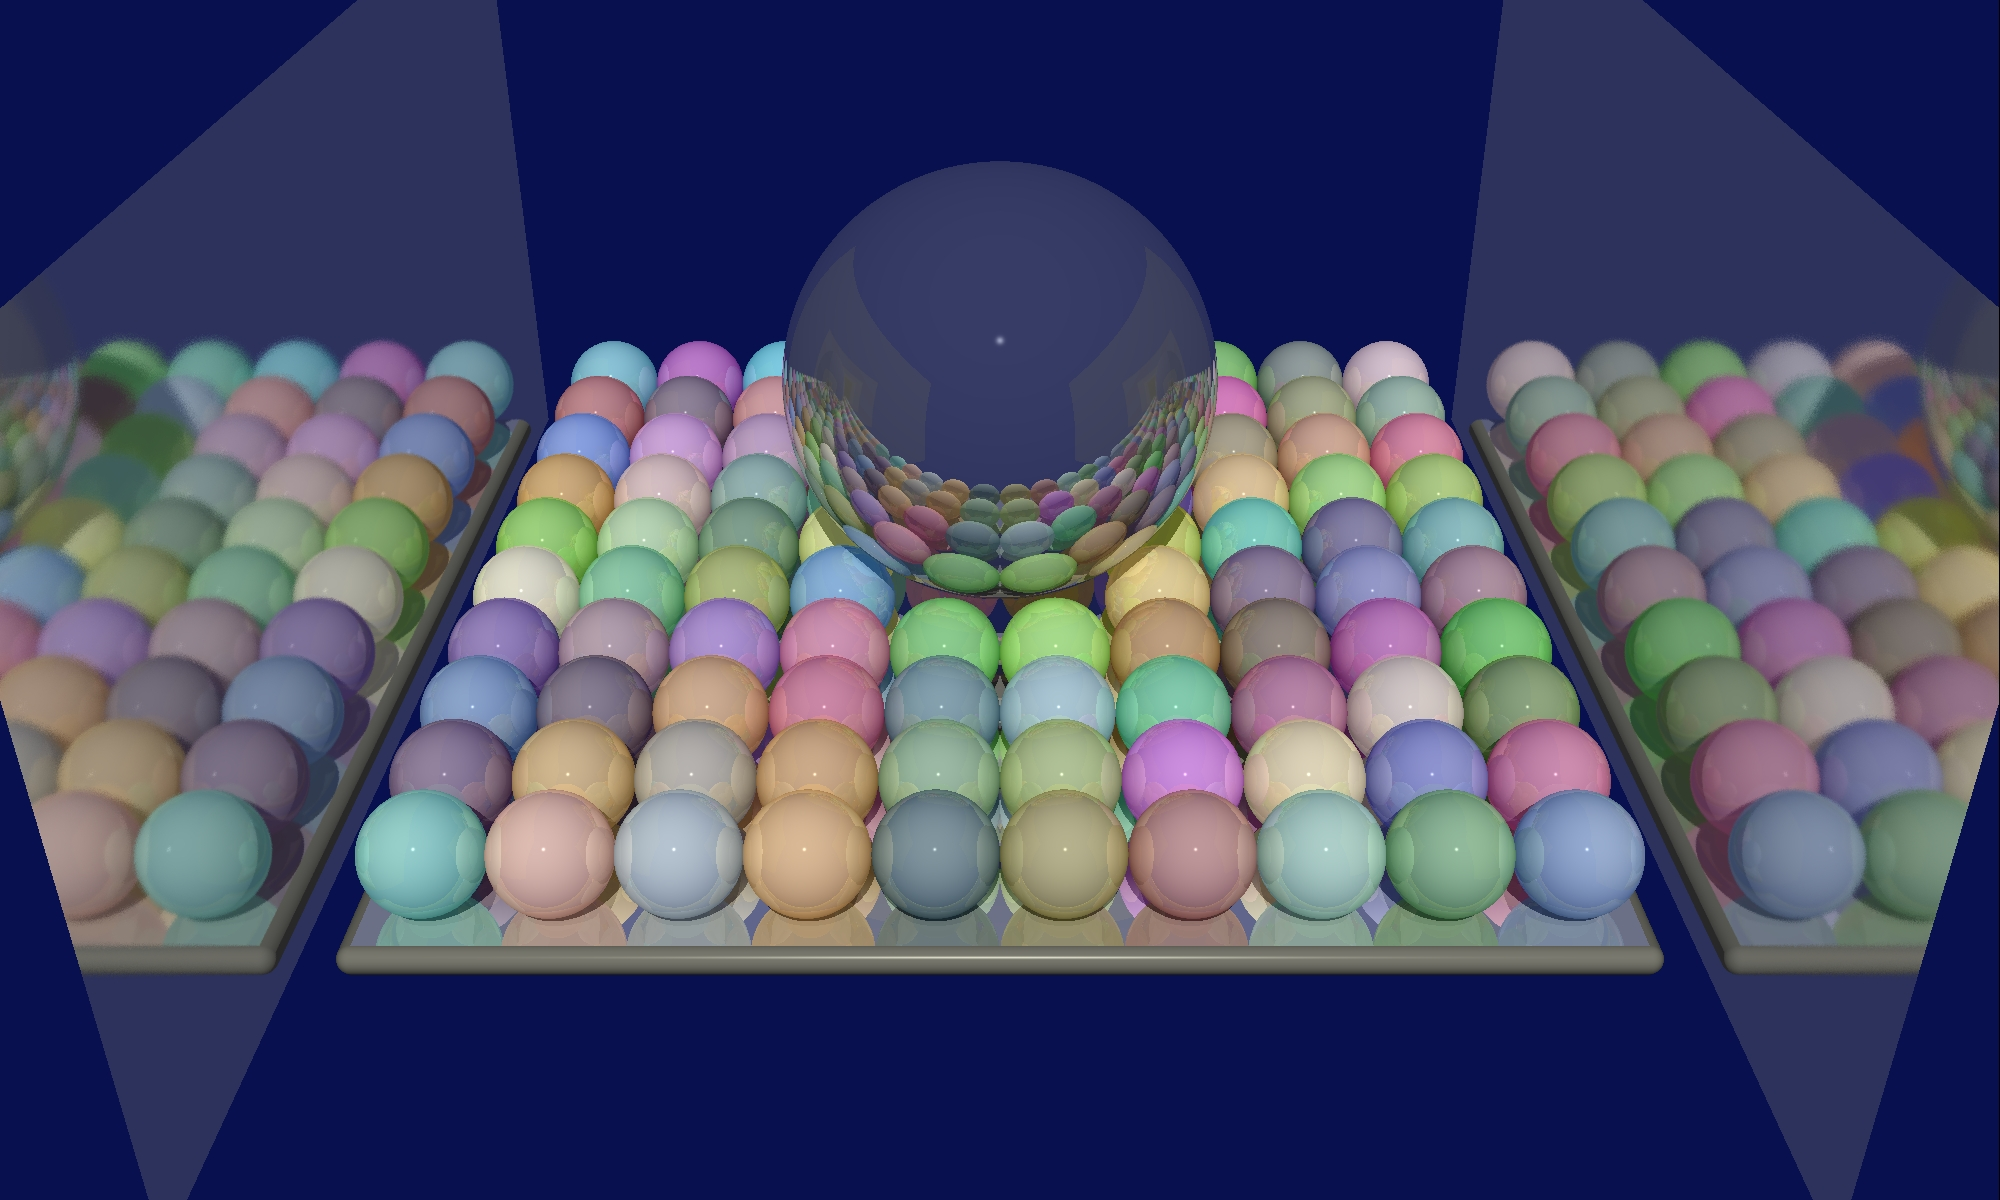
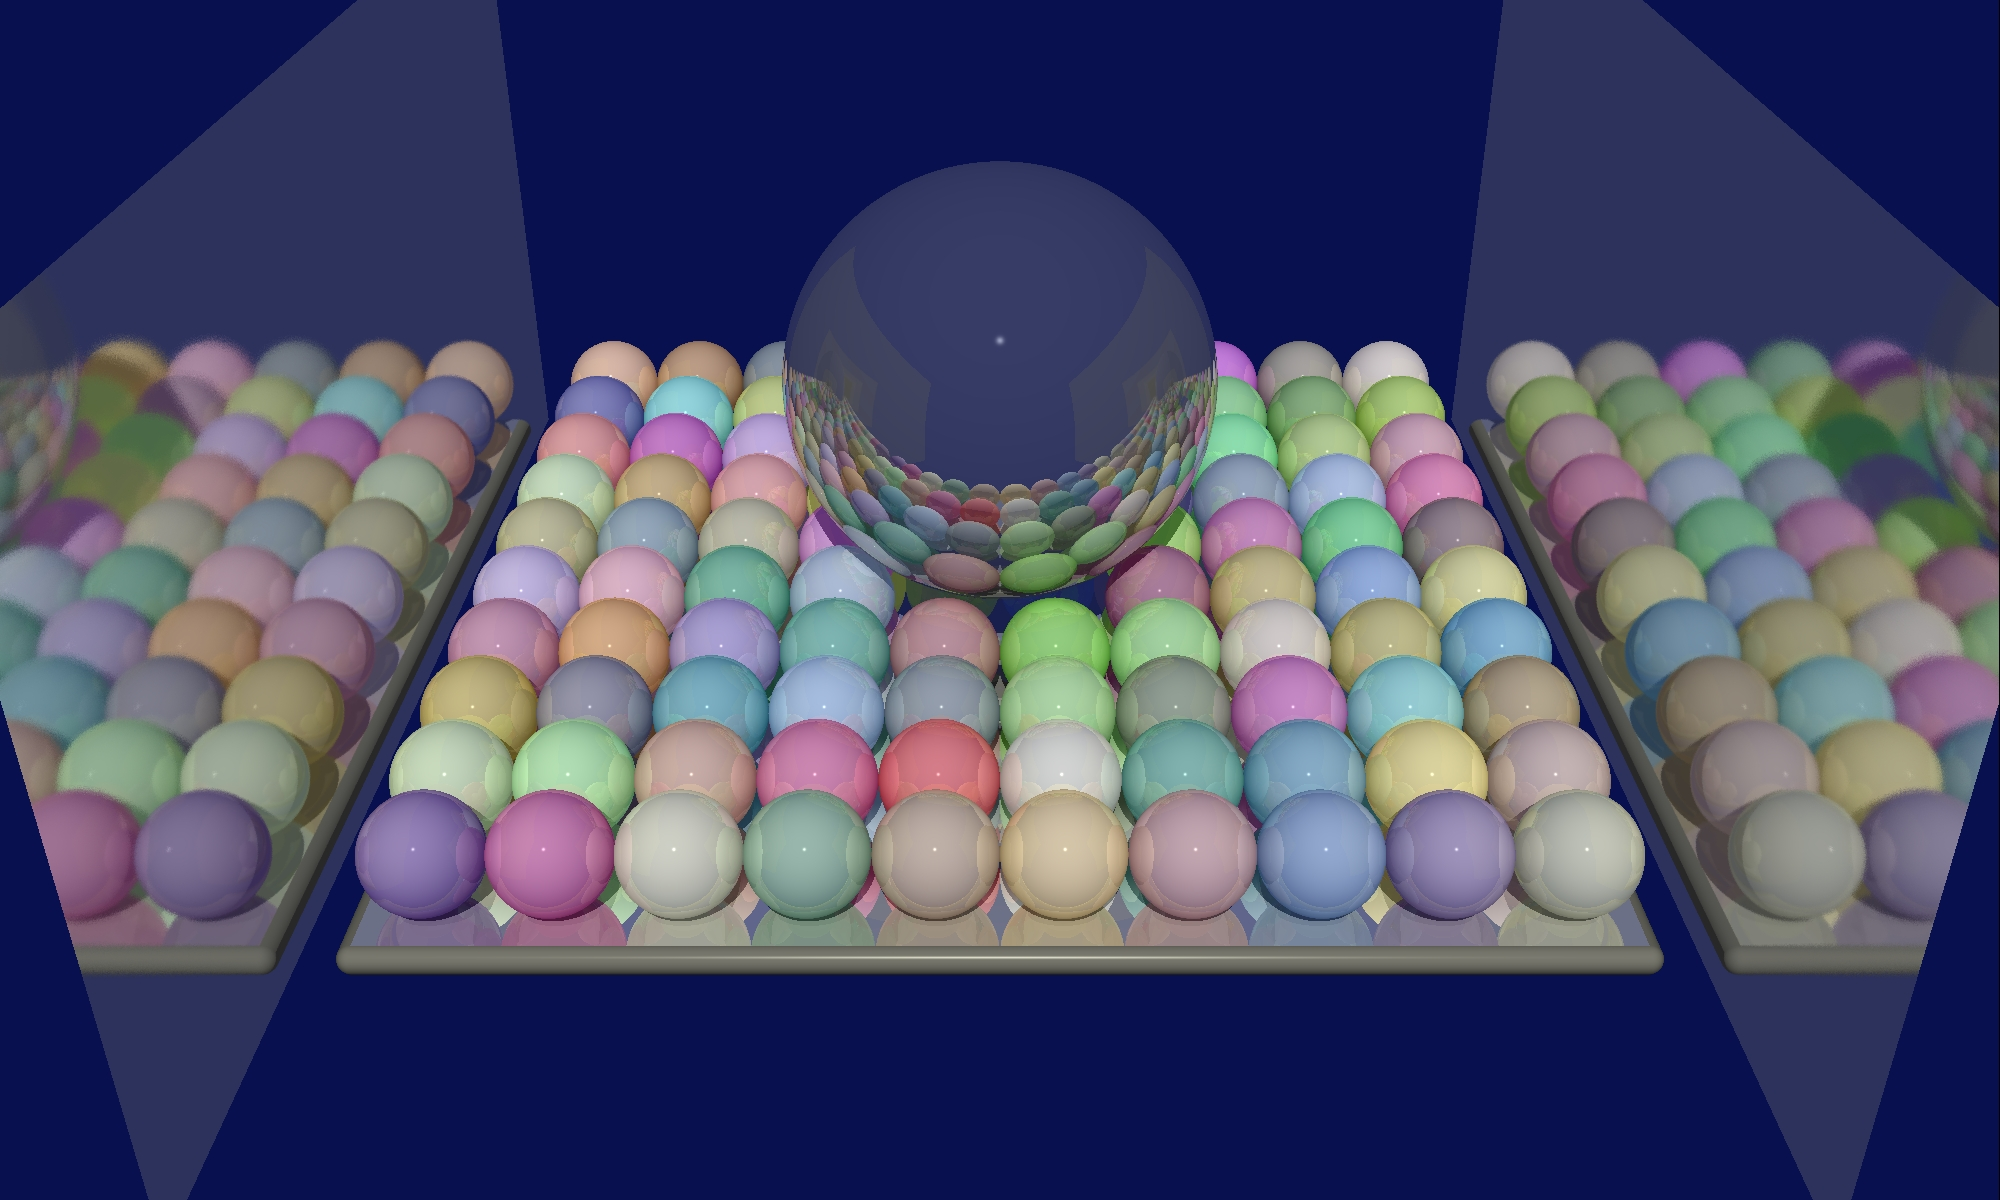
notes and javaDoc

diff --git a/src/scene/Scene.java b/src/scene/Scene.java
@@ -17,7 +17,7 @@ import static java.lang.Math.*;
  * A Scene with geometries ,camera and light
  */
 public class Scene {
-    private static final int START_DISTANCE = 15;
+    private static final int START_DISTANCE = 10;
     private static final int TREE_DEPTH = 10;
     private static final double EMPTY_VOLUME = 0.75;
     //variables
@@ -153,64 +153,96 @@ public class Scene {
                 '}';
     }
 
+    /**
+     *  build hierarchy tree of boxes in the scene
+     */
     public void buildBoxes(){
+        List<Intersectable> geoList = _geometries.getGeometries();
         List<Intersectable> infinite = new ArrayList<>();
-        for(int i=0;i<_geometries.getGeometries().size();i++){
-            Intersectable x =_geometries.getGeometries().get(i);
-            if( (x instanceof Plane)||(x instanceof Tube && !(x instanceof Cylinder))){
+
+        // add all infinite geometries into list
+        for(int i=0;i<geoList.size();i++){
+            Intersectable x =geoList.get(i);
+            if(((x instanceof Plane) && !(x instanceof Triangle) && !(x instanceof Square))||
+                    (x instanceof Tube && !(x instanceof Cylinder))){
                 infinite.add(x);
             }
         }
-        _geometries.getGeometries().removeIf(x->(x instanceof Plane)||(x instanceof Tube && !(x instanceof Cylinder)));
+        // remove all of the infinite geometries
+        geoList.removeIf(x->((x instanceof Plane)&& !(x instanceof Triangle) && !(x instanceof Square))||
+                (x instanceof Tube && !(x instanceof Cylinder)));
 
-        if(!_geometries.getGeometries().isEmpty()) {
-            Box box = new Box(_geometries.getGeometries());
+
+        if(!geoList.isEmpty()) {
+            // make the outside big box, and find what the distance between geometries should probably be
+            Box box = new Box(geoList);
             Point3D maxP = box.getMax();
             Point3D minP = box.getMin();
             Point3D difference = maxP.subtract(minP).getPoint3D();
             double distance = (abs(difference.getX().get()) + abs(difference.getY().get()) + abs(difference.getZ().get()));
+            // split the main box insides to hierarchy of boxes
             box = splitBoxes(box, distance / START_DISTANCE, distance);
 
-            _geometries.getGeometries().clear();
+            // clear the list of geometries and add the root box of the hierarchy
+            geoList.clear();
             _geometries.add(box);
         }
+        // add the infinite geometries
         for(Intersectable intrs:infinite)
             _geometries.add(intrs);
     }
 
+    /**
+     * recursive function to combine the geometries inside the box into more boxes if expedient
+     * @param box the outside box who contains geometries and other boxes
+     * @param distance the maximum distance for combining geometries into a box
+     * @param maxDistance the distance where it possible for no more combination
+     * @return the root box of the hierarchy
+     */
     private Box splitBoxes(Box box,double distance,double maxDistance){
-        if( box.getGeometries().size()==1)
+        List<Intersectable> boxList = box.getGeometries();
+
+        if(boxList.size()==1)
             return box;
-        int boxSize = box.getGeometries().size();
-        distance*=TREE_DEPTH;
+
+        int boxSize = boxList.size();
         List<Intersectable> newBoxList = new ArrayList<>();
         List<Intersectable> temp = new ArrayList<>();
-        List<Intersectable> boxList = box.getGeometries();
-            do {
-            Intersectable first = boxList.get(0);
+        Intersectable first;
+        List<Intersectable> tempBox;
+        Box original;
+        Box added;
+        do {
+            first = boxList.get(0);
             temp.add(first);
             boxList.remove(first);
+            // check if the first geometry has other geometries in a good distance between them
             for (int i=0;i<boxList.size();i++) {
                 if(first.getMiddle().distance(boxList.get(i).getMiddle())<distance){
-                    List<Intersectable> tempBox = new ArrayList<>(temp);
+                    tempBox = new ArrayList<>(temp);
                     tempBox.add(boxList.get(i));
-                    Box original = new Box(temp);
-                    Box added = new Box(tempBox);
-                    if((original.getVolume()+boxList.get(i).getVolume())/added.getVolume()>EMPTY_VOLUME) {
+                    original = new Box(temp);
+                    added = new Box(tempBox);
+                    // check if when we add the new geometry to the box, we don't have too much empty volume
+                    if((original.getVolume()+boxList.get(i).getVolume())/added.getVolume()>EMPTY_VOLUME)
                         temp.add(boxList.get(i));
-                        boxList.remove(boxList.get(i));
-                    }
                 }
             }
-            if(temp.size()>1)
+            if(temp.size()>1) {
+                for(Intersectable item:temp)
+                    boxList.remove(item);
                 newBoxList.add(new Box(temp));
+            }
             else
                 newBoxList.add(first);
             temp.clear();
         }while (!boxList.isEmpty());
         Box returnBox = new Box(newBoxList);
+
+        // check if the the amount of the geometries in the box hasn't changed (no combination happened)
+        // and we are over the distance where geometries should have been combined
         if(returnBox.getGeometries().size()==boxSize && distance>maxDistance)
             return returnBox;
-        return splitBoxes(returnBox,distance,maxDistance);
+        return splitBoxes(returnBox,distance*TREE_DEPTH,maxDistance);
     }
 }

diff --git a/src/renderer/RenderController.java b/src/renderer/RenderController.java
@@ -10,6 +10,9 @@ import java.util.Arrays;
 import java.util.concurrent.ExecutorService;
 import java.util.concurrent.Executors;
 
+/**
+ * class for controlling the render process with thread pool
+ */
 public class RenderController {
     private int _threadsFinish;
     private double[] _progress ;
@@ -20,14 +23,28 @@ public class RenderController {
     private ExecutorService _pool;
     private int _rayBeam=10;
 
-
-    public RenderController( ImageWriter imageWriter, Scene scene,int rb) {
+    /* ********* Constructors ***********/
+    /**
+     * build new RenderController
+     * @param imageWriter imageWriter
+     * @param scene scene
+     * @param rb amount of rays in beam
+     */
+    public RenderController(ImageWriter imageWriter, Scene scene,int rb) {
         _imageWriter = imageWriter;
         _scene = scene;
         _grid = _imageWriter.getGrid();
         _rayBeam=rb;
     }
 
+    /**
+     * build new RenderController (with option for grid)
+     *
+     * @param imageWriter imageWriter
+     * @param scene scene
+     * @param grid apply grid if true
+     * @param rb amount of rays in beam
+     */
     public RenderController( ImageWriter imageWriter, Scene scene,boolean grid,int rb) {
         _imageWriter = imageWriter;
         _scene = scene;
@@ -35,8 +52,10 @@ public class RenderController {
         _rayBeam=rb;
     }
 
-
-
+    /* ************* Operations ***************/
+    /**
+     * render image
+     */
     public void renderImage(){
         _scene.buildBoxes();
         _start =  LocalDateTime.now();
@@ -45,13 +64,18 @@ public class RenderController {
 
         _threadsFinish = 0;
         _progress = new double[_imageWriter.getNx()-1];
+        // make a thread for every row
         for(int i = 0; i< _imageWriter.getNx()-1; i++){
             Render rn = new Render(i,this,_imageWriter,_scene,i,i+1,0,_imageWriter.getNy(),_rayBeam);
             _pool.execute(rn);
-          //  _threadsFinish[i]=false;
         }
     }
 
+    /**
+     * gives information about the progress of a certain thread
+     * @param progress percentage of how much it already rendered
+     * @param id id of the thread
+     */
     void progress(double progress, int id){
         _progress[id]=progress;
         double sum = 0;
@@ -63,6 +87,10 @@ public class RenderController {
         System.out.flush();
     }
 
+    /**
+     * kill the thread pool after all threads are finished
+     * @param id id of the thread
+     */
     void finish(int id){
         _threadsFinish++;
         if(_threadsFinish>=_imageWriter.getNx()-1) {

diff --git a/src/geometries/Intersectable.java b/src/geometries/Intersectable.java
@@ -136,6 +136,7 @@ public abstract class Intersectable {
      * @return boolean
      */
     public boolean intersects(Ray ray) {
+        // algorithm for finding if there is an intersection with the box that is parallel to the axis
         double tmin, tmax, tymin, tymax, tzmin, tzmax;
 
         Point3D max = getMax();
@@ -147,21 +148,19 @@ public abstract class Intersectable {
         double divx = 1/dir.getX().get();
         double divy = 1/dir.getY().get();
 
-        if (ray.getVector().getPoint3D().getX().get()>=0){
+        if (dir.getX().get()>=0){
             tmin = min.getX().subtract(origin.getX()).scale(divx).get();
             tmax = max.getX().subtract(origin.getX()).scale(divx).get();
         }else{
             tmax = min.getX().subtract(origin.getX()).scale(divx).get();
             tmin = max.getX().subtract(origin.getX()).scale(divx).get();
-
         }
-        if (ray.getVector().getPoint3D().getY().get()>=0){
+        if (dir.getY().get()>=0){
             tymin = min.getY().subtract(origin.getY()).scale(divy).get();
             tymax = max.getY().subtract(origin.getY()).scale(divy).get();
         }else{
             tymax = min.getY().subtract(origin.getY()).scale(divy).get();
             tymin = max.getY().subtract(origin.getY()).scale(divy).get();
-
         }
 
         if ( (tmin > tymax) || (tymin > tmax) )
@@ -174,7 +173,7 @@ public abstract class Intersectable {
 
         double divz = 1/dir.getZ().get();
 
-        if (ray.getVector().getPoint3D().getZ().get()>=0){
+        if (dir.getZ().get()>=0){
             tzmin = min.getZ().subtract(origin.getZ()).scale(divz).get();
             tzmax = max.getZ().subtract(origin.getZ()).scale(divz).get();
         }else{

diff --git a/src/renderer/Render.java b/src/renderer/Render.java
@@ -74,7 +74,18 @@ public class Render implements Runnable {
     }
 
 
-
+    /**
+     *
+     * @param i id of the thread
+     * @param renderController class for controlling the render process with thread pool
+     * @param imageWriter image writer
+     * @param scene scene
+     * @param minI start X axis of render
+     * @param maxI end X axis of render
+     * @param minJ start Y axis of render
+     * @param maxJ end Y axis of render
+     * @param br amount of rays in beam
+     */
     public Render(int i, RenderController renderController, ImageWriter imageWriter, Scene scene, int minI, int maxI, int minJ, int maxJ, int br) {
         _minI=minI;
         _minJ=minJ;

diff --git a/src/geometries/Box.java b/src/geometries/Box.java
@@ -17,7 +17,6 @@ public class Box extends Intersectable{
     private int _size=0;
 
     /* ********* Constructors ***********/
-
     /**
      * A new Box
      */
@@ -54,7 +53,6 @@ public class Box extends Intersectable{
     }
 
     /* ************* Getters/Setters *******/
-
     /**
      * Get all geometries
      * @return list of geometries
@@ -82,8 +80,6 @@ public class Box extends Intersectable{
     }
 
     /* ************* Operations ***************/
-
-
 
     /**
      * Get all intersections

diff --git a/src/com/miniproject/Main.java b/src/com/miniproject/Main.java
@@ -95,6 +95,9 @@ public class Main {
     }
 
 
+    /**
+     * render special tests
+     */
     public static void proTestsNew(){
         Scene scene = new Scene("");
         scene.setCamera(new Camera(new Point3D(-400,-1800,2000),new Vector(0,-1,0),new Vector(0,0,-1)),500);
